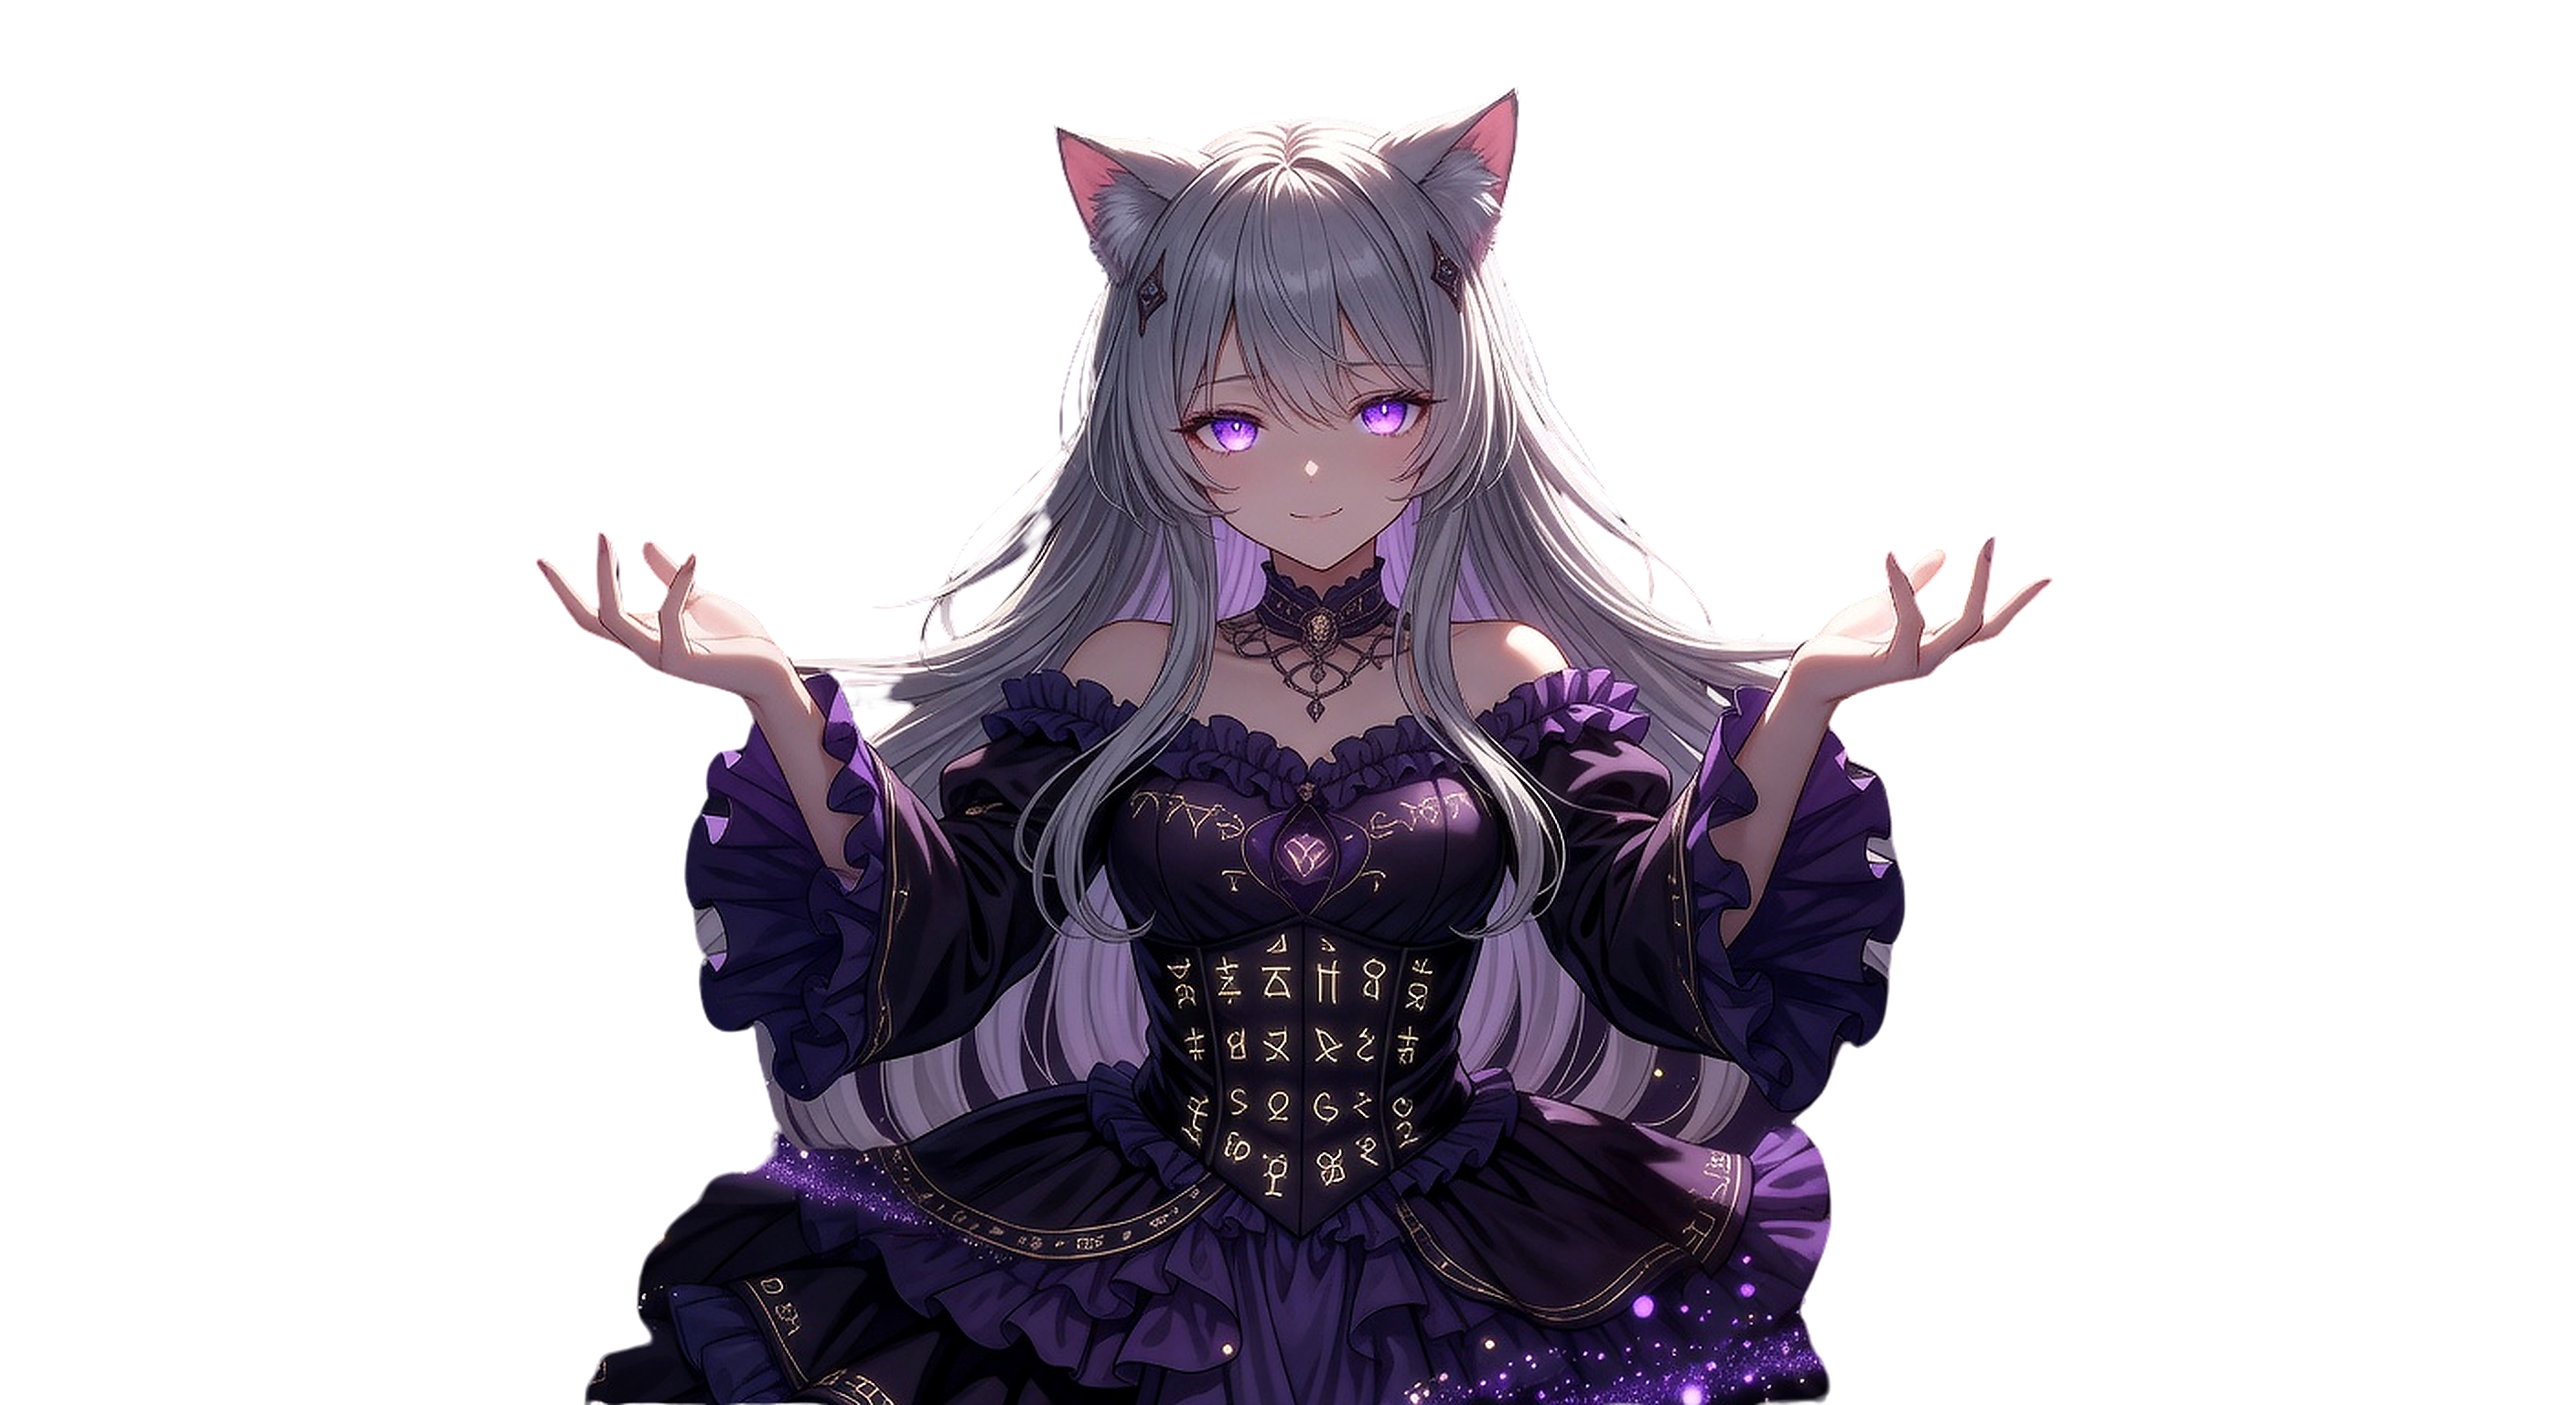
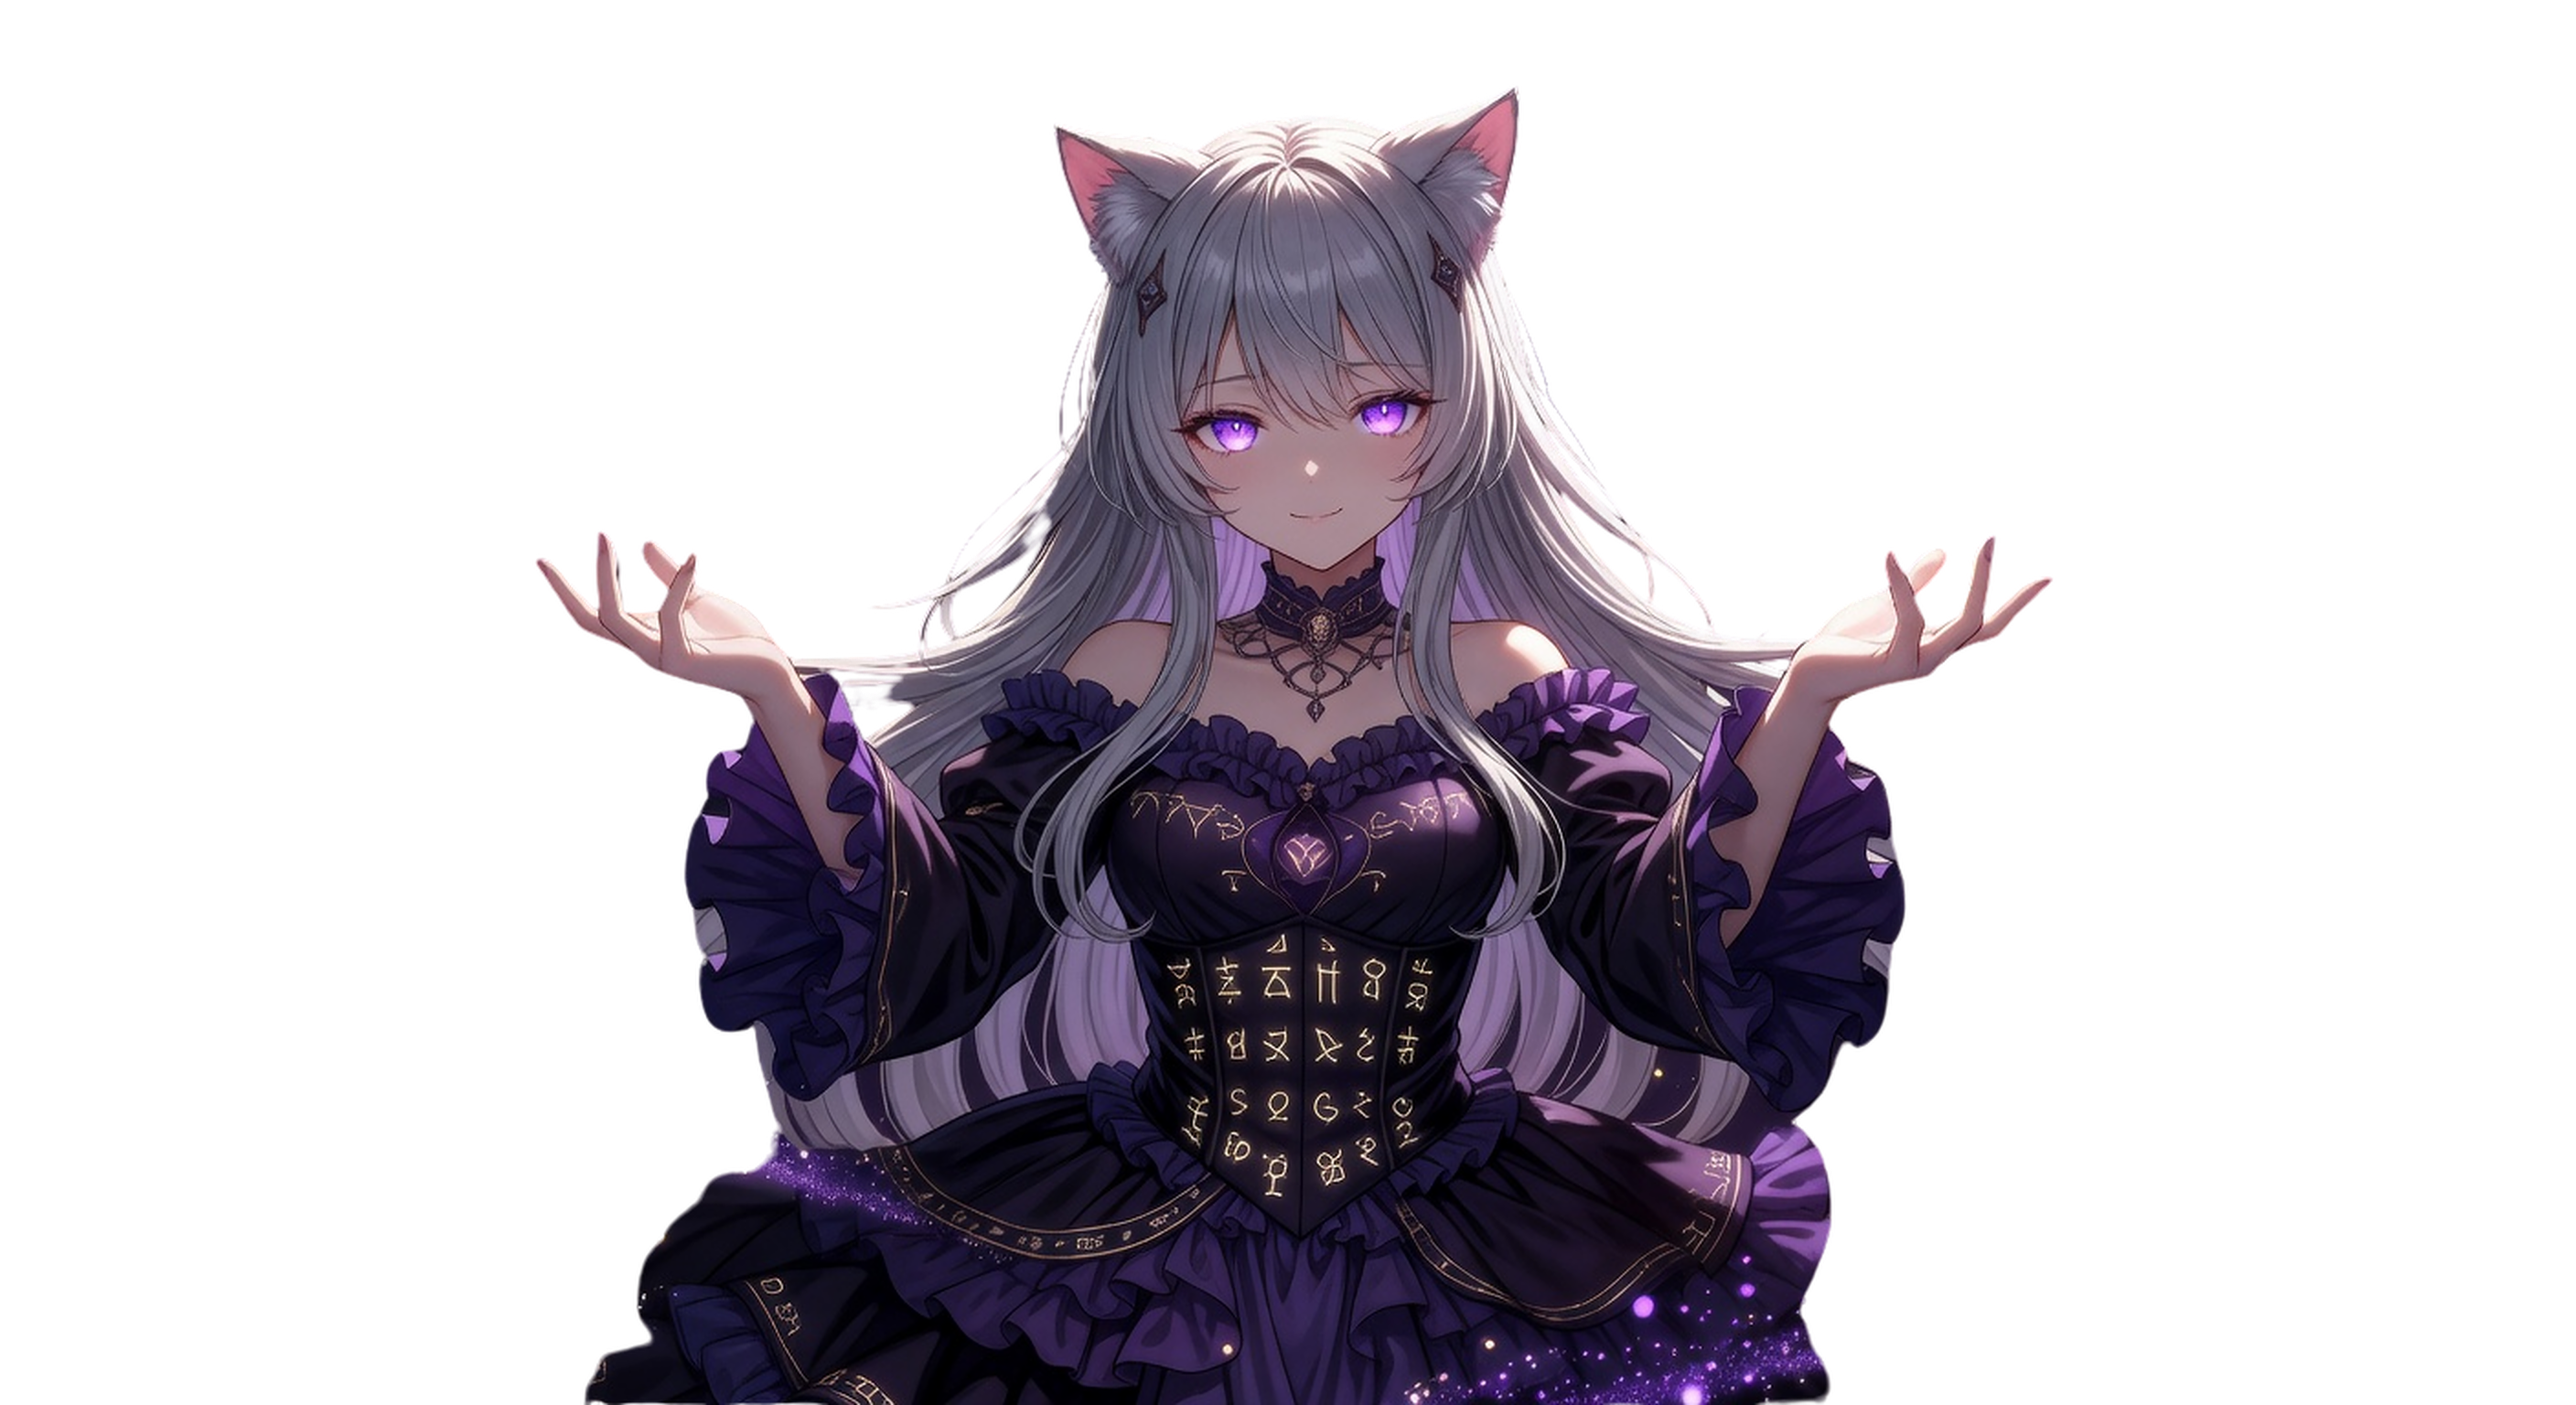
refine arcana image upscale smoothing

diff --git a/docs/superpowers/specs/2026-05-09-arcana-image-upscale-sample.md b/docs/superpowers/specs/2026-05-09-arcana-image-upscale-sample.md
@@ -10,9 +10,20 @@ Date: 2026-05-09
 
 ## Method
 
-- Resized RGBA PNGs from `1408 x 768` to `2816 x 1536` with Lanczos resampling.
-- Applied a light unsharp mask and subtle contrast adjustment to the color layer.
-- Preserved transparency while slightly cleaning the semi-transparent edge alpha.
+- Resized PNGs from `1408 x 768` to `2816 x 1536`.
+- Resized color with premultiplied alpha so transparent-edge RGB does not bleed into the cutout.
+- Preserved alpha exactly from the Lanczos-upscaled source alpha.
+- Reduced weathered pixel texture with low-radius surface smoothing in flat color areas.
+- Protected hair, eye, clothing, and alpha edges with a Sobel-derived edge mask.
+- Applied mild edge-only detail restoration instead of global sharpening.
+
+## Validation
+
+- Enhanced dimensions are exactly `2x` for every Arcana sample.
+- All enhanced files remain `RGBA` PNGs.
+- Alpha mismatch against the 2x source alpha is `0%`.
+- Alpha bounding box drift and alpha center-of-mass drift are `0`.
+- Luma edge ratio stays within `0.987 - 0.996`, preserving line identity while reducing noisy surface texture.
 
 ## Local Preview
 
